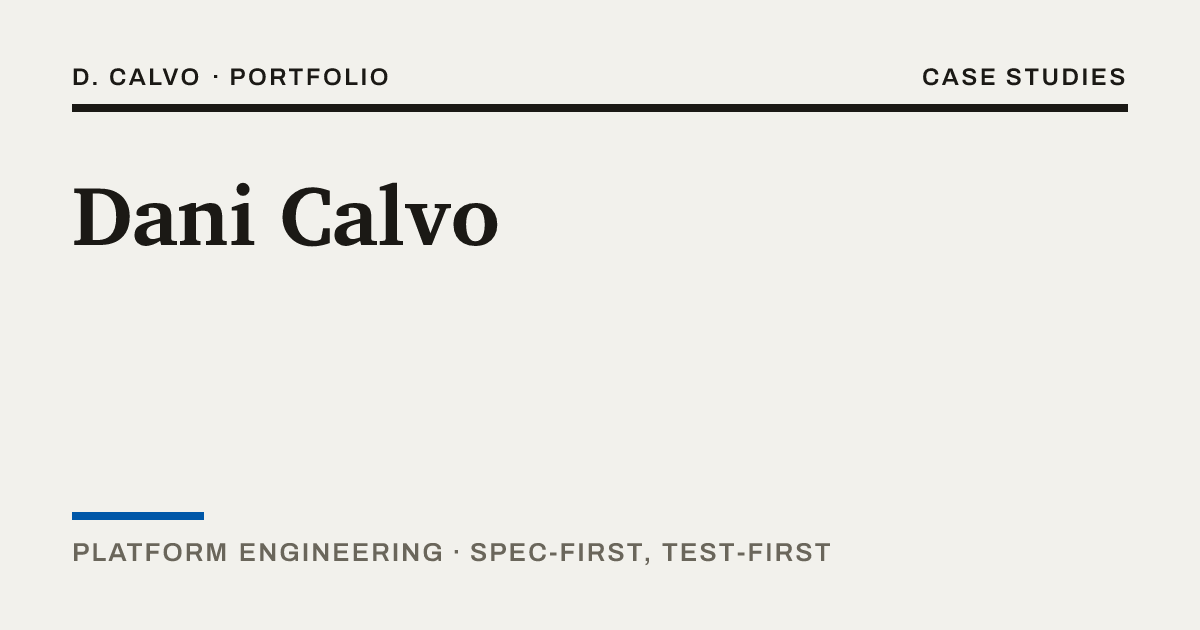
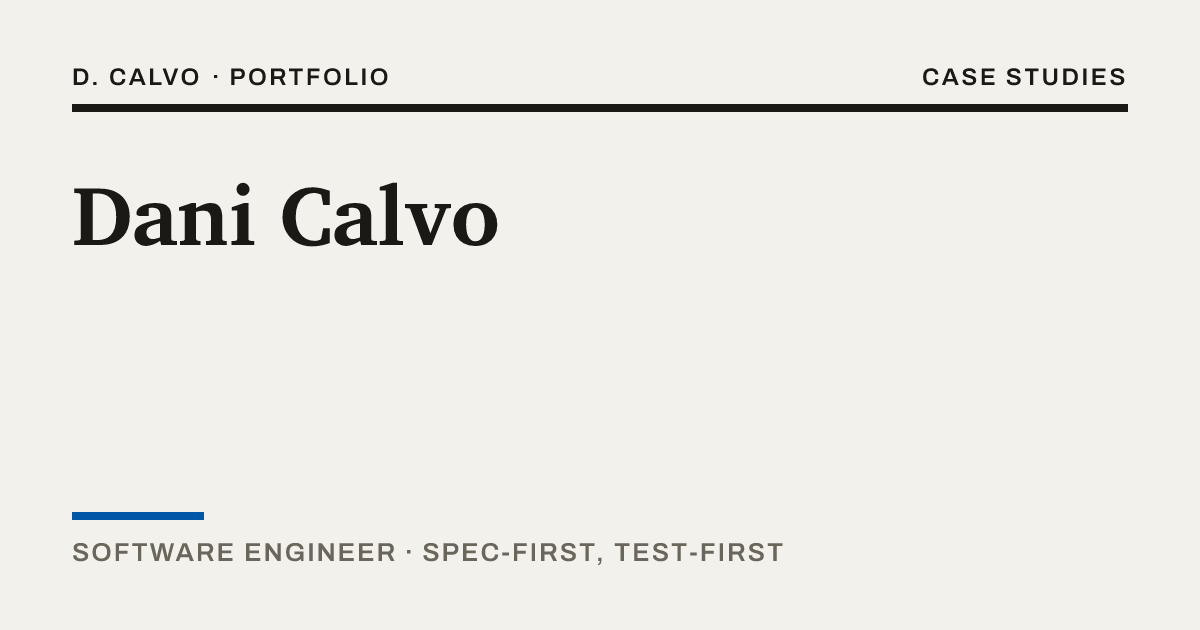
Write the RetryFi case study from the actual codebase
Every claim traced to the repo: Inngest state machine, layered
idempotency, hardcoded retry/dunning schedules with decline
classification, two-tier circuit breaker, pricing, 71-file test
suite, and the honest read_write OAuth scope nuance. Warning block
owns the single-Supabase-project shortcut, report-only CSP, and the
missing re-encrypt script. Fig. 1 pipeline diagram + Table 1
guardrails; MDX numeric props passed as strings (expression attrs
render empty); inline code styled in Archivo, never Courier; OG home
subtitle synced to the new "Software engineer" positioning.
Remaining TODO: production metrics only.

Changed region(s): [[0.0617, 0.8444, 0.6783, 0.9048]]

diff --git a/src/app/layout.tsx b/src/app/layout.tsx
@@ -1,45 +1,69 @@
-import type { Metadata } from 'next';
-import localFont from 'next/font/local';
-import './tokens.css';
-import './global.css';
-import { RunningHead } from '@/components/RunningHead';
-import { FooterLine } from '@/components/FooterLine';
-import { SITE_URL } from '@/lib/site';
+import type { Metadata } from "next";
+import localFont from "next/font/local";
+import "./tokens.css";
+import "./global.css";
+import { RunningHead } from "@/components/RunningHead";
+import { FooterLine } from "@/components/FooterLine";
+import { SITE_URL } from "@/lib/site";
 
 const charis = localFont({
   src: [
-    { path: '../fonts/charis-sil-latin-400-normal.woff2', weight: '400', style: 'normal' },
-    { path: '../fonts/charis-sil-latin-700-normal.woff2', weight: '700', style: 'normal' },
-    { path: '../fonts/charis-sil-latin-400-italic.woff2', weight: '400', style: 'italic' },
+    {
+      path: "../fonts/charis-sil-latin-400-normal.woff2",
+      weight: "400",
+      style: "normal",
+    },
+    {
+      path: "../fonts/charis-sil-latin-700-normal.woff2",
+      weight: "700",
+      style: "normal",
+    },
+    {
+      path: "../fonts/charis-sil-latin-400-italic.woff2",
+      weight: "400",
+      style: "italic",
+    },
   ],
-  variable: '--font-charis',
-  display: 'optional',
+  variable: "--font-charis",
+  display: "optional",
   preload: false,
 });
 
 const archivo = localFont({
   src: [
-    { path: '../fonts/archivo-latin-500-normal.woff2', weight: '500', style: 'normal' },
-    { path: '../fonts/archivo-latin-600-normal.woff2', weight: '600', style: 'normal' },
+    {
+      path: "../fonts/archivo-latin-500-normal.woff2",
+      weight: "500",
+      style: "normal",
+    },
+    {
+      path: "../fonts/archivo-latin-600-normal.woff2",
+      weight: "600",
+      style: "normal",
+    },
   ],
-  variable: '--font-archivo',
-  display: 'optional',
+  variable: "--font-archivo",
+  display: "optional",
   preload: false,
 });
 
 export const metadata: Metadata = {
   metadataBase: new URL(SITE_URL),
   title: {
-    default: 'Dani Calvo · platform engineering',
-    template: '%s · Dani Calvo',
+    default: "Dani Calvo · software engineer",
+    template: "%s · Dani Calvo",
   },
   description:
-    'I build SaaS platforms end to end: spec-first, test-first, with AI as engineering leverage.',
-  openGraph: { images: ['/og/home.png'], siteName: 'Dani Calvo · Portfolio' },
-  twitter: { card: 'summary_large_image' },
+    "I build SaaS platforms end to end: spec-first, test-first, with AI as engineering leverage.",
+  openGraph: { images: ["/og/home.png"], siteName: "Dani Calvo · Portfolio" },
+  twitter: { card: "summary_large_image" },
 };
 
-export default function RootLayout({ children }: { children: React.ReactNode }) {
+export default function RootLayout({
+  children,
+}: {
+  children: React.ReactNode;
+}) {
   return (
     <html lang="en" className={`${charis.variable} ${archivo.variable}`}>
       <body>

diff --git a/src/app/page.tsx b/src/app/page.tsx
@@ -1,6 +1,6 @@
-import Link from 'next/link';
-import { loadCaseStudies } from '@/lib/content';
-import { TodoText } from '@/components/mdx';
+import Link from "next/link";
+import { loadCaseStudies } from "@/lib/content";
+import { TodoText } from "@/components/mdx";
 
 export default function Home() {
   const featured = loadCaseStudies().filter((s) => s.featured);
@@ -8,20 +8,20 @@ export default function Home() {
     <>
       <section className="masthead">
         <h1>Dani Calvo</h1>
-        <p className="label">Platform engineering · July 2026</p>
+        <p className="label">Software engineer</p>
       </section>
 
       <section className="abstract" aria-label="Abstract">
         <span className="label">Abstract</span>
         <p>
-          I build SaaS platforms end to end: spec-first, test-first, with AI as engineering
-          leverage. Lately that means RetryFi, a payment-recovery service built alone from
-          architecture to launch, and staking platforms where a wrong number in the UI costs
-          someone real money.
+          I build SaaS platforms end to end: spec-first, test-first, with AI as
+          engineering leverage. Lately that means RetryFi, a payment-recovery
+          service built alone from architecture to launch, and staking platforms
+          where a wrong number in the UI costs someone real money.
         </p>
         <p className="index-terms">
-          <b>Index terms</b>: Stripe Connect, dunning, web3 platforms, Next.js, test-driven
-          development
+          <b>Index terms</b>: Stripe Connect, dunning, web3 platforms, Next.js,
+          test-driven development
         </p>
       </section>
 
@@ -30,7 +30,9 @@ export default function Home() {
         <ol className="contents">
           {featured.map((s) => (
             <li key={s.slug}>
-              <Link prefetch={false} href={`/work/${s.slug}/`}>{s.title}</Link>
+              <Link prefetch={false} href={`/work/${s.slug}/`}>
+                {s.title}
+              </Link>
               <span className="label period">
                 <TodoText text={s.period} />
               </span>
@@ -39,7 +41,9 @@ export default function Home() {
         </ol>
         <p className="contents-appendix">
           <span className="label">Appendix</span>
-          <Link prefetch={false} href="/process/">How I build: spec to tests to production</Link>
+          <Link prefetch={false} href="/process/">
+            How I build: spec to tests to production
+          </Link>
         </p>
       </section>
     </>

diff --git a/src/components/mdx.tsx b/src/components/mdx.tsx
@@ -52,7 +52,7 @@ export function Fig({
   caption,
   children,
 }: {
-  n: number;
+  n: number | string;
   caption: string;
   children?: React.ReactNode;
 }) {
@@ -72,7 +72,7 @@ export function Data({
   caption,
   children,
 }: {
-  n: number;
+  n: number | string;
   caption: string;
   children?: React.ReactNode;
 }) {

diff --git a/src/app/global.css b/src/app/global.css
@@ -236,6 +236,15 @@ h3 + .warning {
   font-style: italic;
 }
 
+/* Identifiers in prose: the Archivo data voice, never browser Courier
+   (DESIGN.md: no mono anywhere). */
+code {
+  font-family: var(--sans);
+  font-weight: 500;
+  font-size: 0.88em;
+  letter-spacing: 0.01em;
+}
+
 figure {
   margin: 1.6rem 0 2rem;
 }
